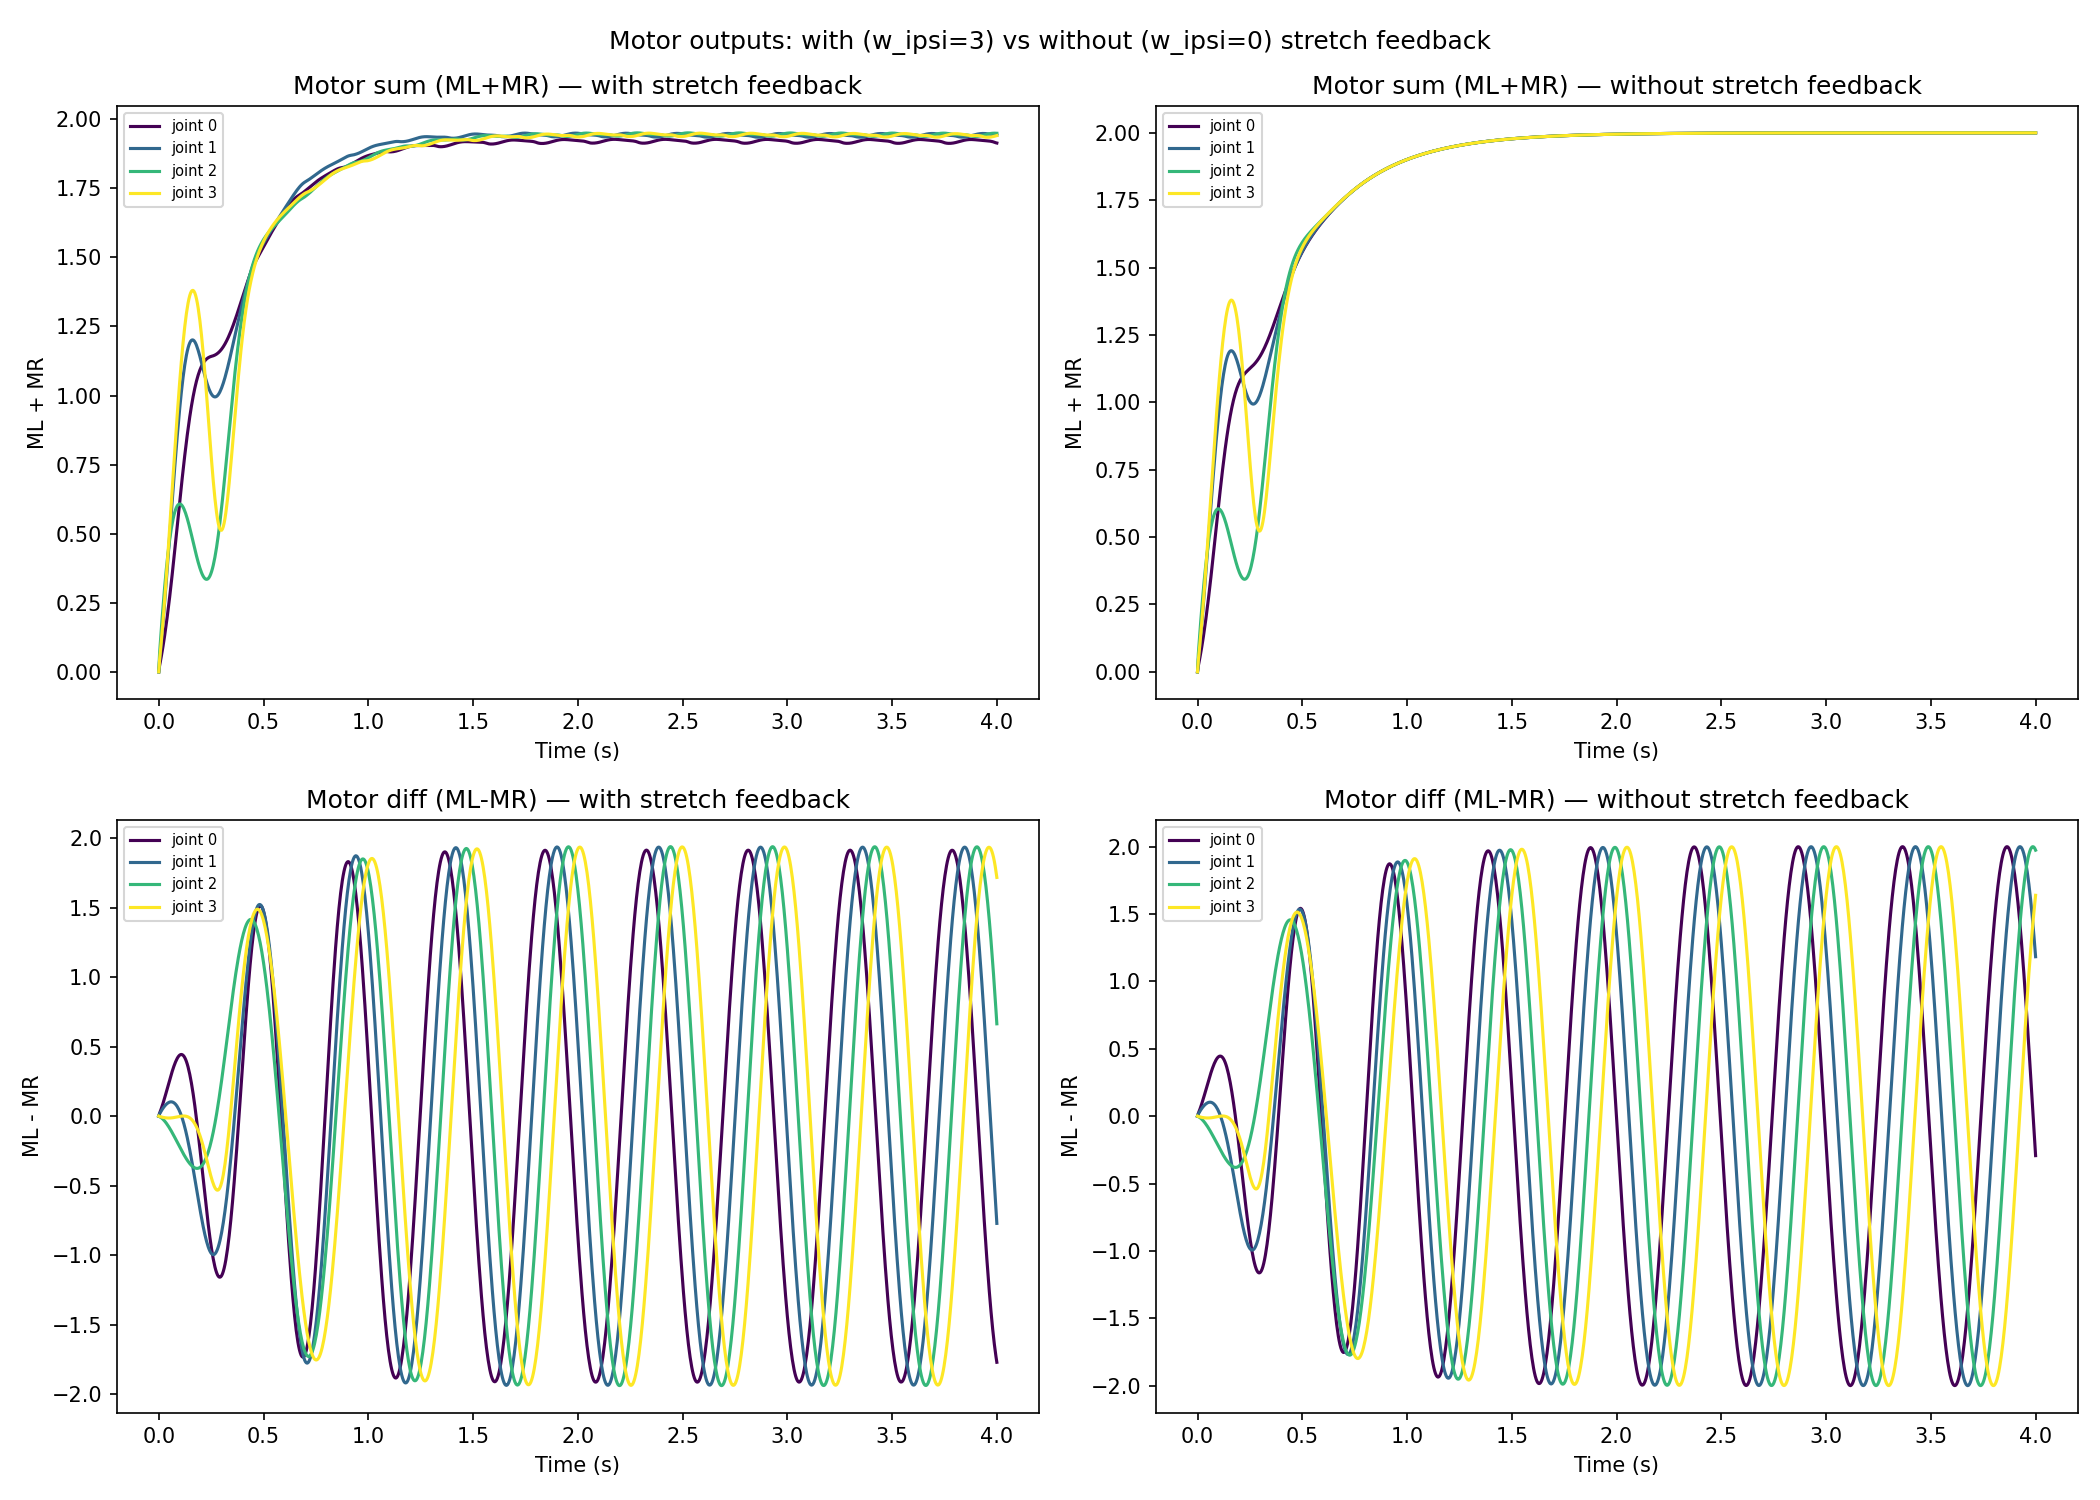
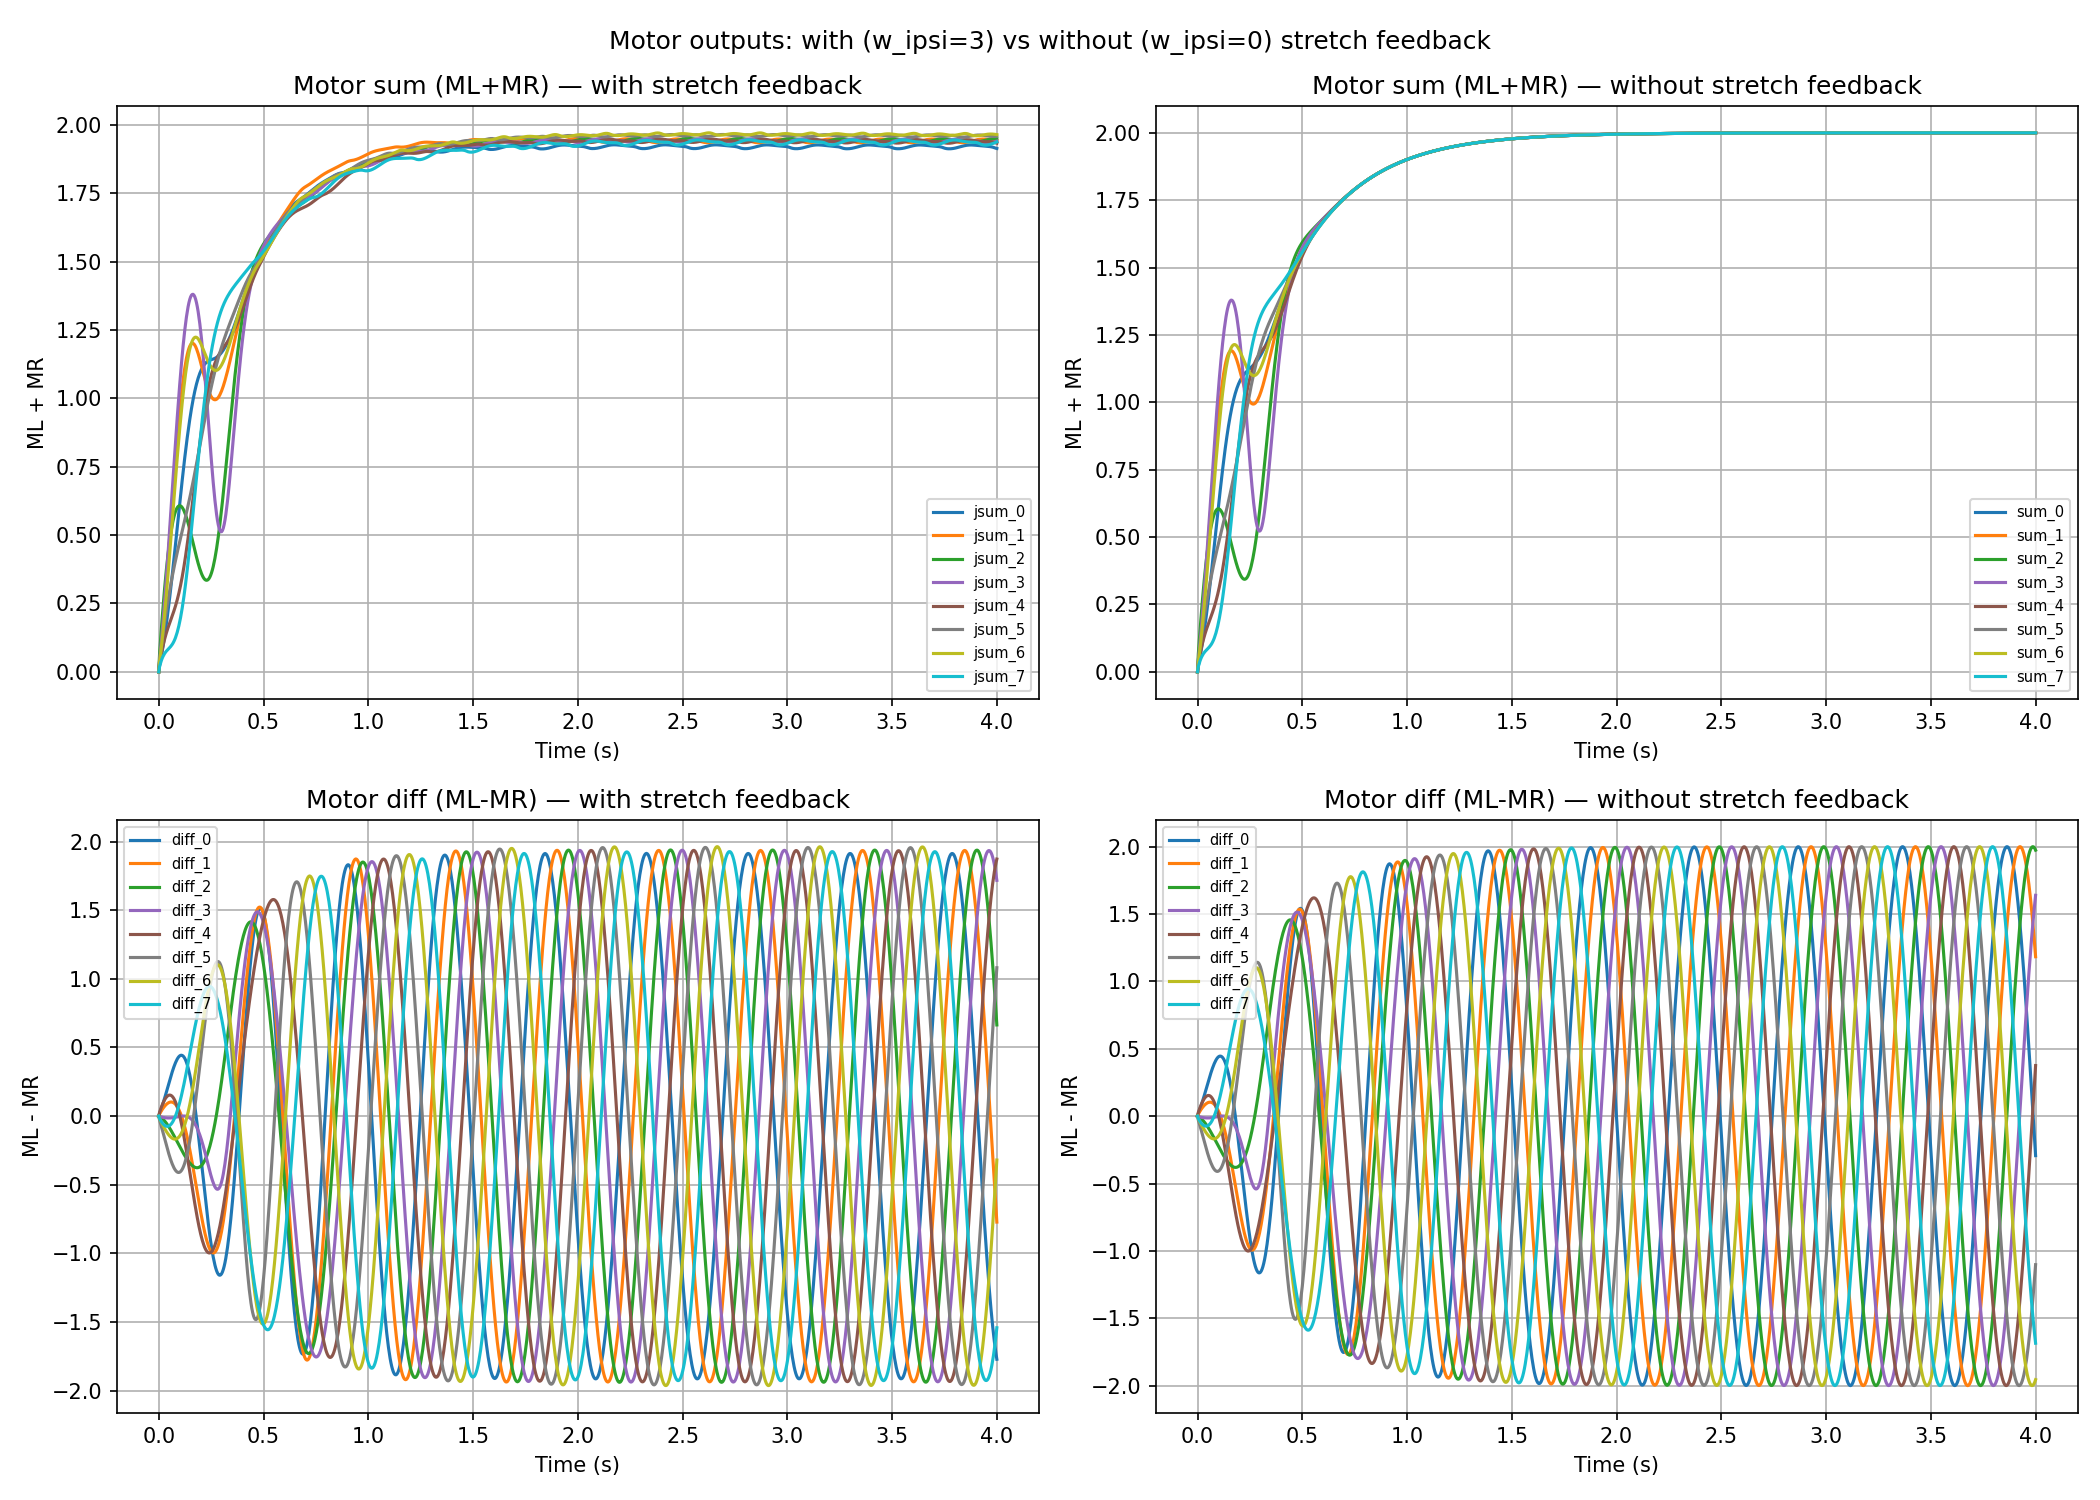
nicer plots for 3.1

diff --git a/Project1/Python/exercise3_1.py b/Project1/Python/exercise3_1.py
@@ -23,83 +23,8 @@ BASE_PATH = 'logs/exercise3_1/'
 PLOT_PATH = 'results'
 
 ######################## début code Estelle #################################################
-'''
-def plot_oscillator_states():
-    """Plot oscillator states (theta and r) for w_ipsi=3 and w_ipsi=0"""
 
-    with open(os.path.join(BASE_PATH, 'controller_with_sf.pkl'), 'rb') as f:
-        controller_with = pickle.load(f)
-    with open(os.path.join(BASE_PATH, 'controller_without_sf.pkl'), 'rb') as f:
-        controller_without = pickle.load(f)
-
-    # Extract states directly from the dict
-    state_with = controller_with['state']       # shape (n_iterations, 3*n_oscillators)
-    state_without = controller_without['state']
-
-    n_oscillators = 16
-    n_iterations = state_with.shape[0]
-    timestep = 0.004  # adjust if different
-    time = np.arange(n_iterations) * timestep
-
-    # Extract theta and r
-    theta_with    = state_with[:, :n_oscillators]
-    r_with        = state_with[:, n_oscillators:2*n_oscillators]
-    theta_without = state_without[:, :n_oscillators]
-    r_without     = state_without[:, n_oscillators:2*n_oscillators]
-    motor
-    # Only plot first 5 seconds
-    t_end = 5.0
-    mask = time <= t_end
-
-    # Plot a subset of oscillators for clarity (e.g. left chain: 0,2,4,6)
-    osc_to_plot = [0, 2, 4, 6]
-    colors = plt.cm.viridis(np.linspace(0, 1, len(osc_to_plot)))
-
-    fig, axes = plt.subplots(2, 2, figsize=(14, 8))
-    fig.suptitle('Oscillator states: with (w_ipsi=3) vs without (w_ipsi=0) stretch feedback')
-
-    # --- Theta with feedback ---
-    ax = axes[0, 0]
-    for idx, osc in enumerate(osc_to_plot):
-        ax.plot(time[mask], theta_with[mask, osc], color=colors[idx], label=f'osc {osc}')
-    ax.set_title('Phase θ — with stretch feedback')
-    ax.set_xlabel('Time (s)')
-    ax.set_ylabel('Phase (rad)')
-    ax.legend()
-
-    # --- Theta without feedback ---
-    ax = axes[0, 1]
-    for idx, osc in enumerate(osc_to_plot):
-        ax.plot(time[mask], theta_without[mask, osc], color=colors[idx], label=f'osc {osc}')
-    ax.set_title('Phase θ — without stretch feedback')
-    ax.set_xlabel('Time (s)')
-    ax.set_ylabel('Phase (rad)')
-    ax.legend()
-
-    # --- r with feedback ---
-    ax = axes[1, 0]
-    for idx, osc in enumerate(osc_to_plot):
-        ax.plot(time[mask], r_with[mask, osc], color=colors[idx], label=f'osc {osc}')
-    ax.set_title('Amplitude r — with stretch feedback')
-    ax.set_xlabel('Time (s)')
-    ax.set_ylabel('Amplitude')
-    ax.legend()
-
-    # --- r without feedback ---
-    ax = axes[1, 1]
-    for idx, osc in enumerate(osc_to_plot):
-        ax.plot(time[mask], r_without[mask, osc], color=colors[idx], label=f'osc {osc}')
-    ax.set_title('Amplitude r — without stretch feedback')
-    ax.set_xlabel('Time (s)')
-    ax.set_ylabel('Amplitude')
-    ax.legend()
-
-    plt.tight_layout()
-    os.makedirs(PLOT_PATH, exist_ok=True)
-    plt.savefig(os.path.join(PLOT_PATH, 'oscillator_states_comparison.png'), dpi=150)
-    plt.show()
-'''
-def plot_oscillator_states():
+def post_processing_3_1():
 
     with open(os.path.join(BASE_PATH, 'controller_with_sf.pkl'), 'rb') as f:
         controller_with = pickle.load(f)
@@ -109,16 +34,11 @@ def plot_oscillator_states():
     with h5py.File(os.path.join(BASE_PATH, 'simulation_with_sf.hdf5'), 'r') as f:
         sensor_data_links_with = f['FARMSLISTanimats']['0']['sensors']['links']['array'][:]
         joints_array_with = f['FARMSLISTanimats']['0']['sensors']['joints']['array'][:]
-        joints_names = f['FARMSLISTanimats']['0']['sensors']['joints']['names'][:]
-        #print("timestep 100, all joints, feature 0:", joints_array_with[100, :, 0])  # positions?
-        #print("timestep 100, all joints, feature 1:", joints_array_with[100, :, 1])  # velocities?
-        #print("timestep 100, all joints, feature 11:", joints_array_with[100, :, 11]) # torques?
-        #print("timestep 100, all joints, feature 14:", joints_array_with[100, :, 14])
+
     with h5py.File(os.path.join(BASE_PATH, 'simulation_without_sf.hdf5'), 'r') as f:
         sensor_data_links_without = f['FARMSLISTanimats']['0']['sensors']['links']['array'][:]
         joints_array_without = f['FARMSLISTanimats']['0']['sensors']['joints']['array'][:]
 
-    #print("links array shape:", sensor_data_links_with.shape)
 
     state_with = controller_with['state']
     state_without = controller_without['state']
@@ -126,6 +46,16 @@ def plot_oscillator_states():
     timestep = 0.004
     n_iterations = state_with.shape[0]
     time = np.arange(n_iterations) * timestep
+
+    # Only plot first 5 seconds
+    t_end = 5.0
+    mask = time <= t_end
+    t = time[mask]
+
+    
+    joints = list(range(8))   # which joints to plot
+    #colors = plt.cm.viridis(np.linspace(0, 1, len(joints)))
+    colors = plt.cm.tab10(np.linspace(0, 1, 8))
 
     # Extract phases
     theta_left_with   = state_with[:, slice(0, 16, 2)]
@@ -139,55 +69,6 @@ def plot_oscillator_states():
     r_left_without   = state_without[:, slice(16, 32, 2)]
     r_right_without  = state_without[:, slice(17, 33, 2)]
 
-    # Extract motor outputs
-    motor_left_with   = state_with[:, slice(32, 48, 2)]
-    motor_right_with  = state_with[:, slice(33, 49, 2)]
-    motor_left_without   = state_without[:, slice(32, 48, 2)]
-    motor_right_without  = state_without[:, slice(33, 49, 2)]
-
-    # Sum and diff
-    motor_sum_with   = motor_left_with  + motor_right_with
-    motor_diff_with  = motor_left_with  - motor_right_with
-    motor_sum_without  = motor_left_without + motor_right_without
-    motor_diff_without = motor_left_without - motor_right_without
-
-    ######## Forward speed ######
-    #links_positions_with  = sensor_data_links_with[:, :, :3]
-    links_positions_with  = sensor_data_links_with[:, :, 7:10]
-    links_velocities_with = sensor_data_links_with[:, :, 14:17]
-
-    #links_positions_without  = sensor_data_links_without[:, :, :3]
-    links_positions_without  = sensor_data_links_without[:, :, 7:10]
-    links_velocities_without = sensor_data_links_without[:, :, 14:17]
-
-    # CoM trajectory
-    #com_positions_with    = sensor_data_links_with.mean(axis=1)
-    #com_positions_without = sensor_data_links_without.mean(axis=1)
-    com_positions_with    = links_positions_with.mean(axis=1)
-    com_positions_without = links_positions_without.mean(axis=1)
-    com_x_with    = com_positions_with[:, 0]
-    com_y_with    = com_positions_with[:, 1]
-    com_x_without = com_positions_without[:, 0]
-    com_y_without = com_positions_without[:, 1]
-
-    # Joints
-    joint_angles_with    = joints_array_with[:, :8, 0]    # (n_iterations, 8)
-    joint_angles_without = joints_array_without[:, :8, 0]
-    
-    joints_velocities_with    = joints_array_with[:, :, 1]
-    joints_torques_with       = joints_array_with[:, :, 11]
-    joints_velocities_without = joints_array_without[:, :, 1]
-    joints_torques_without    = joints_array_without[:, :, 11]
-
-    # Only plot first 5 seconds
-    t_end = 5.0
-    mask = time <= t_end
-    t = time[mask]
-
-    joints = [0, 1, 2, 3]  # which joints to plot
-    colors = plt.cm.viridis(np.linspace(0, 1, len(joints)))
-
-  
     # ---- Figure 1: theta and r ----
     fig1, axes1 = plt.subplots(2, 2, figsize=(14, 10))
     fig1.suptitle('Oscillator states: with (w_ipsi=3) vs without (w_ipsi=0) stretch feedback')
@@ -200,6 +81,7 @@ def plot_oscillator_states():
     axes1[0, 0].set_xlabel('Time (s)')
     axes1[0, 0].set_ylabel('Phase (rad)')
     axes1[0, 0].legend(fontsize=7)
+    axes1[0, 0].grid()
 
     # theta without
     for idx, j in enumerate(joints):
@@ -209,6 +91,7 @@ def plot_oscillator_states():
     axes1[0, 1].set_xlabel('Time (s)')
     axes1[0, 1].set_ylabel('Phase (rad)')
     axes1[0, 1].legend(fontsize=7)
+    axes1[0, 1].grid()
 
     # r with
     for idx, j in enumerate(joints):
@@ -218,6 +101,7 @@ def plot_oscillator_states():
     axes1[1, 0].set_xlabel('Time (s)')
     axes1[1, 0].set_ylabel('Amplitude')
     axes1[1, 0].legend(fontsize=7)
+    axes1[1, 0].grid()
 
     # r without
     for idx, j in enumerate(joints):
@@ -227,49 +111,101 @@ def plot_oscillator_states():
     axes1[1, 1].set_xlabel('Time (s)')
     axes1[1, 1].set_ylabel('Amplitude')
     axes1[1, 1].legend(fontsize=7)
+    axes1[1, 1].grid()
 
     fig1.tight_layout()
     os.makedirs(PLOT_PATH, exist_ok=True)
     fig1.savefig(os.path.join(PLOT_PATH, 'oscillator_states_theta_r.png'), dpi=150)
 
+    #############################################################################################################
+
+    # Extract motor outputs
+    motor_left_with   = state_with[:, slice(32, 48, 2)]
+    motor_right_with  = state_with[:, slice(33, 49, 2)]
+    motor_left_without   = state_without[:, slice(32, 48, 2)]
+    motor_right_without  = state_without[:, slice(33, 49, 2)]
+
+    # Sum and diff
+    motor_sum_with   = motor_left_with  + motor_right_with
+    motor_diff_with  = motor_left_with  - motor_right_with
+    motor_sum_without  = motor_left_without + motor_right_without
+    motor_diff_without = motor_left_without - motor_right_without
+
+
     # ---- Figure 2: motor sum and diff ----
+    colors = plt.cm.tab10(np.linspace(0, 1, 8))
     fig2, axes2 = plt.subplots(2, 2, figsize=(14, 10))
     fig2.suptitle('Motor outputs: with (w_ipsi=3) vs without (w_ipsi=0) stretch feedback')
 
     # sum with
     for idx, j in enumerate(joints):
-        axes2[0, 0].plot(t, motor_sum_with[mask, j], color=colors[idx], label=f'joint {j}')
+        axes2[0, 0].plot(t, motor_sum_with[mask, j], color=colors[idx], label=f'jsum_{j}')
     axes2[0, 0].set_title('Motor sum (ML+MR) — with stretch feedback')
     axes2[0, 0].set_xlabel('Time (s)')
     axes2[0, 0].set_ylabel('ML + MR')
     axes2[0, 0].legend(fontsize=7)
+    axes2[0, 0].grid()
 
     # sum without
     for idx, j in enumerate(joints):
-        axes2[0, 1].plot(t, motor_sum_without[mask, j], color=colors[idx], label=f'joint {j}')
+        axes2[0, 1].plot(t, motor_sum_without[mask, j], color=colors[idx], label=f'sum_{j}')
     axes2[0, 1].set_title('Motor sum (ML+MR) — without stretch feedback')
     axes2[0, 1].set_xlabel('Time (s)')
     axes2[0, 1].set_ylabel('ML + MR')
     axes2[0, 1].legend(fontsize=7)
+    axes2[0, 1].grid()
 
     # diff with
     for idx, j in enumerate(joints):
-        axes2[1, 0].plot(t, motor_diff_with[mask, j], color=colors[idx], label=f'joint {j}')
+        axes2[1, 0].plot(t, motor_diff_with[mask, j], color=colors[idx], label=f'diff_{j}')
     axes2[1, 0].set_title('Motor diff (ML-MR) — with stretch feedback')
     axes2[1, 0].set_xlabel('Time (s)')
     axes2[1, 0].set_ylabel('ML - MR')
     axes2[1, 0].legend(fontsize=7)
+    axes2[1, 0].grid()
 
     # diff without
     for idx, j in enumerate(joints):
-        axes2[1, 1].plot(t, motor_diff_without[mask, j], color=colors[idx], label=f'joint {j}')
+        axes2[1, 1].plot(t, motor_diff_without[mask, j], color=colors[idx], label=f'diff_{j}')
     axes2[1, 1].set_title('Motor diff (ML-MR) — without stretch feedback')
     axes2[1, 1].set_xlabel('Time (s)')
     axes2[1, 1].set_ylabel('ML - MR')
     axes2[1, 1].legend(fontsize=7)
+    axes2[1, 1].grid()
 
     fig2.tight_layout()
     fig2.savefig(os.path.join(PLOT_PATH, 'oscillator_states_motor.png'), dpi=150)
+
+    #############################################################################################################
+    
+    ######## Forward speed ######
+    links_positions_with  = sensor_data_links_with[:, :, 7:10]
+    links_velocities_with = sensor_data_links_with[:, :, 14:17]
+
+   
+    links_positions_without  = sensor_data_links_without[:, :, 7:10]
+    links_velocities_without = sensor_data_links_without[:, :, 14:17]
+
+  
+    # Joints
+    joint_angles_with    = joints_array_with[:, :8, 0]    # (n_iterations, 8)
+    joint_angles_without = joints_array_without[:, :8, 0]
+    
+    joints_velocities_with    = joints_array_with[:, :, 1]
+    joints_torques_with       = joints_array_with[:, :, 11]
+    joints_velocities_without = joints_array_without[:, :, 1]
+    joints_torques_without    = joints_array_without[:, :, 11]
+
+ 
+    #############################################################################################################
+    
+    # CoM trajectory
+    com_positions_with    = links_positions_with.mean(axis=1)
+    com_positions_without = links_positions_without.mean(axis=1)
+    com_x_with    = com_positions_with[:, 0]
+    com_y_with    = com_positions_with[:, 1]
+    com_x_without = com_positions_without[:, 0]
+    com_y_without = com_positions_without[:, 1]
 
     # ---- Figure 3: CoM trajectory ----
     fig3, axes3 = plt.subplots(1, 2, figsize=(14, 5))
@@ -291,29 +227,32 @@ def plot_oscillator_states():
 
     fig3.tight_layout()
     fig3.savefig(os.path.join(PLOT_PATH, 'com_trajectory.png'), dpi=150)
-    #plt.show()
 
-    # ---- Figure 4: CoM trajectory ----
+    #############################################################################################################
+    
+
+    # ---- Figure 4: ----
 
     joints_to_plot = list(range(8))  # subset for clarity
-    colors = plt.cm.viridis(np.linspace(0, 1, len(joints_to_plot)))
+    #colors = plt.cm.viridis(np.linspace(0, 1, len(joints_to_plot)))
+    colors = plt.cm.tab10(np.linspace(0, 1, 8))
 
     fig4, axes4 = plt.subplots(1, 2, figsize=(14, 5))
     fig4.suptitle('Body joint angles: with (w_ipsi=3) vs without (w_ipsi=0) stretch feedback')
 
     for idx, j in enumerate(joints_to_plot):
-        axes4[0].plot(t, joint_angles_with[mask, j], color=colors[idx], label=f'joint {j}')
+        axes4[0].plot(t, joint_angles_with[mask, j], color=colors[idx], label=f'Joint {j}')
     axes4[0].set_title('Joint angles — with stretch feedback')
-    axes4[0].set_xlabel('Time (s)')
-    axes4[0].set_ylabel('Angle (rad)')
+    axes4[0].set_xlabel('Time [s]')
+    axes4[0].set_ylabel('Angle [rad]')
     axes4[0].legend(fontsize=7)
     axes4[0].grid()
 
     for idx, j in enumerate(joints_to_plot):
-        axes4[1].plot(t, joint_angles_without[mask, j], color=colors[idx], label=f'joint {j}')
+        axes4[1].plot(t, joint_angles_without[mask, j], color=colors[idx], label=f'Joint {j}')
     axes4[1].set_title('Joint angles — without stretch feedback')
-    axes4[1].set_xlabel('Time (s)')
-    axes4[1].set_ylabel('Angle (rad)')
+    axes4[1].set_xlabel('Time [s]')
+    axes4[1].set_ylabel('Angle [rad]')
     axes4[1].legend(fontsize=7)
     axes4[1].grid()
 
@@ -429,7 +368,7 @@ def main(**kwargs):
         headless=headless,
     )
   
-    plot_oscillator_states()
+    post_processing_3_1()
 
 
 
